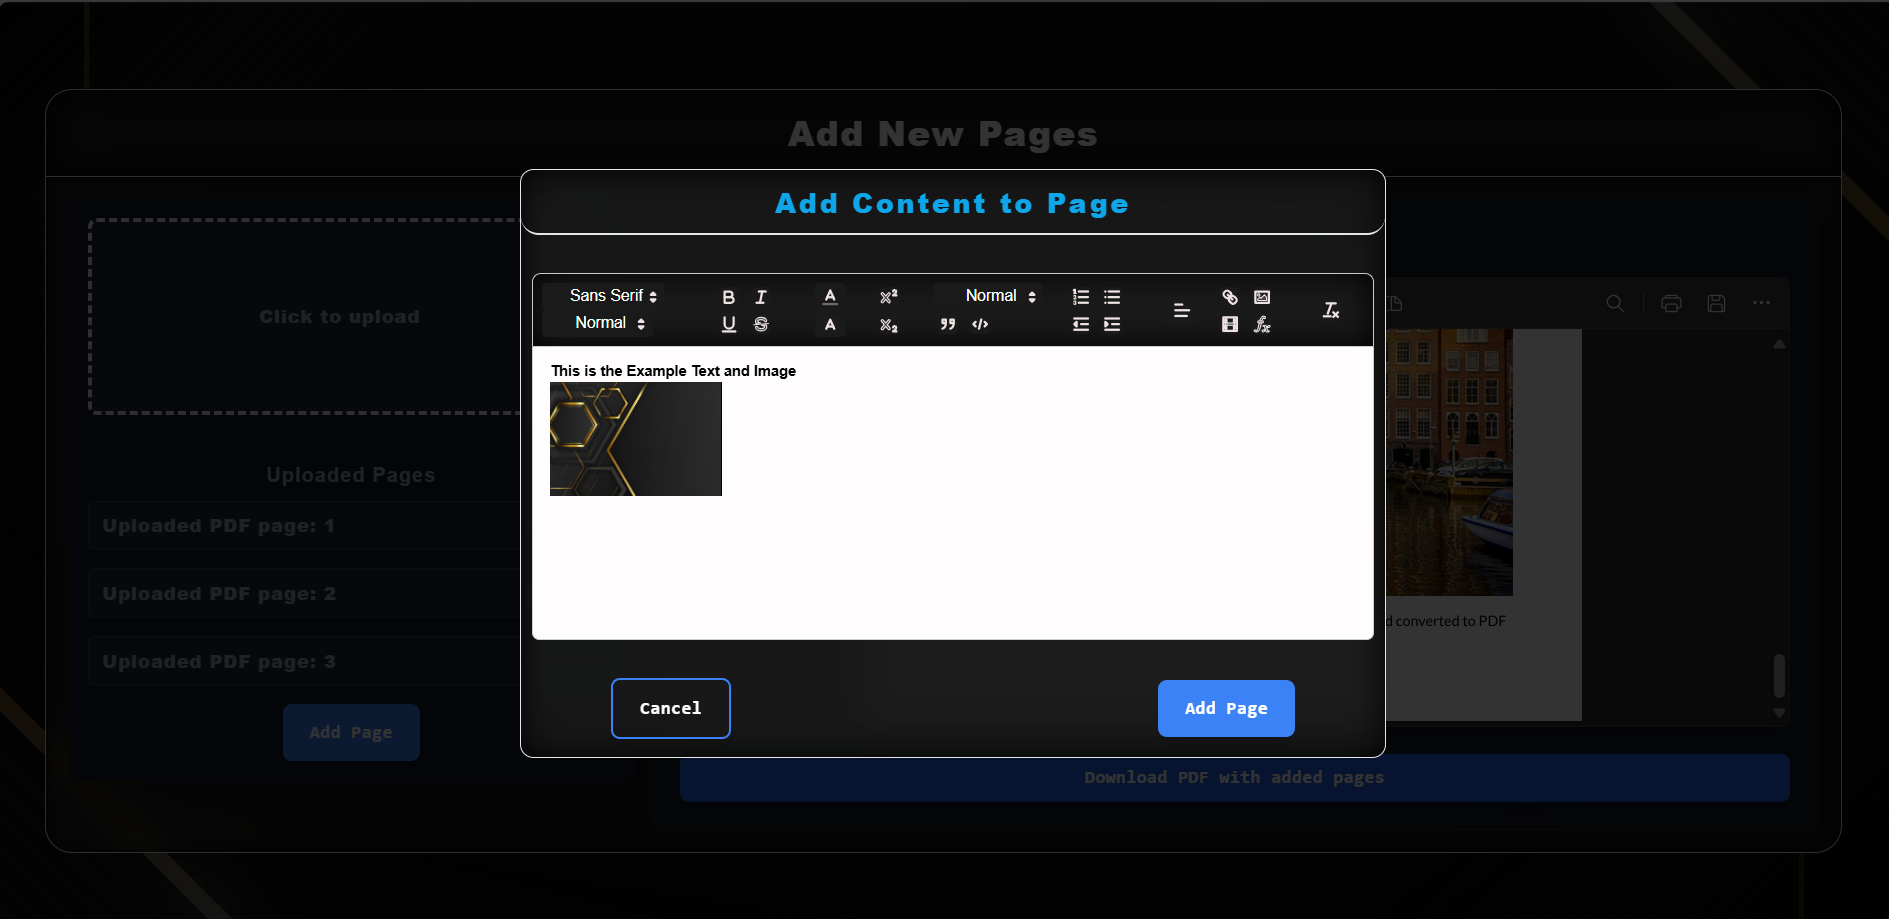
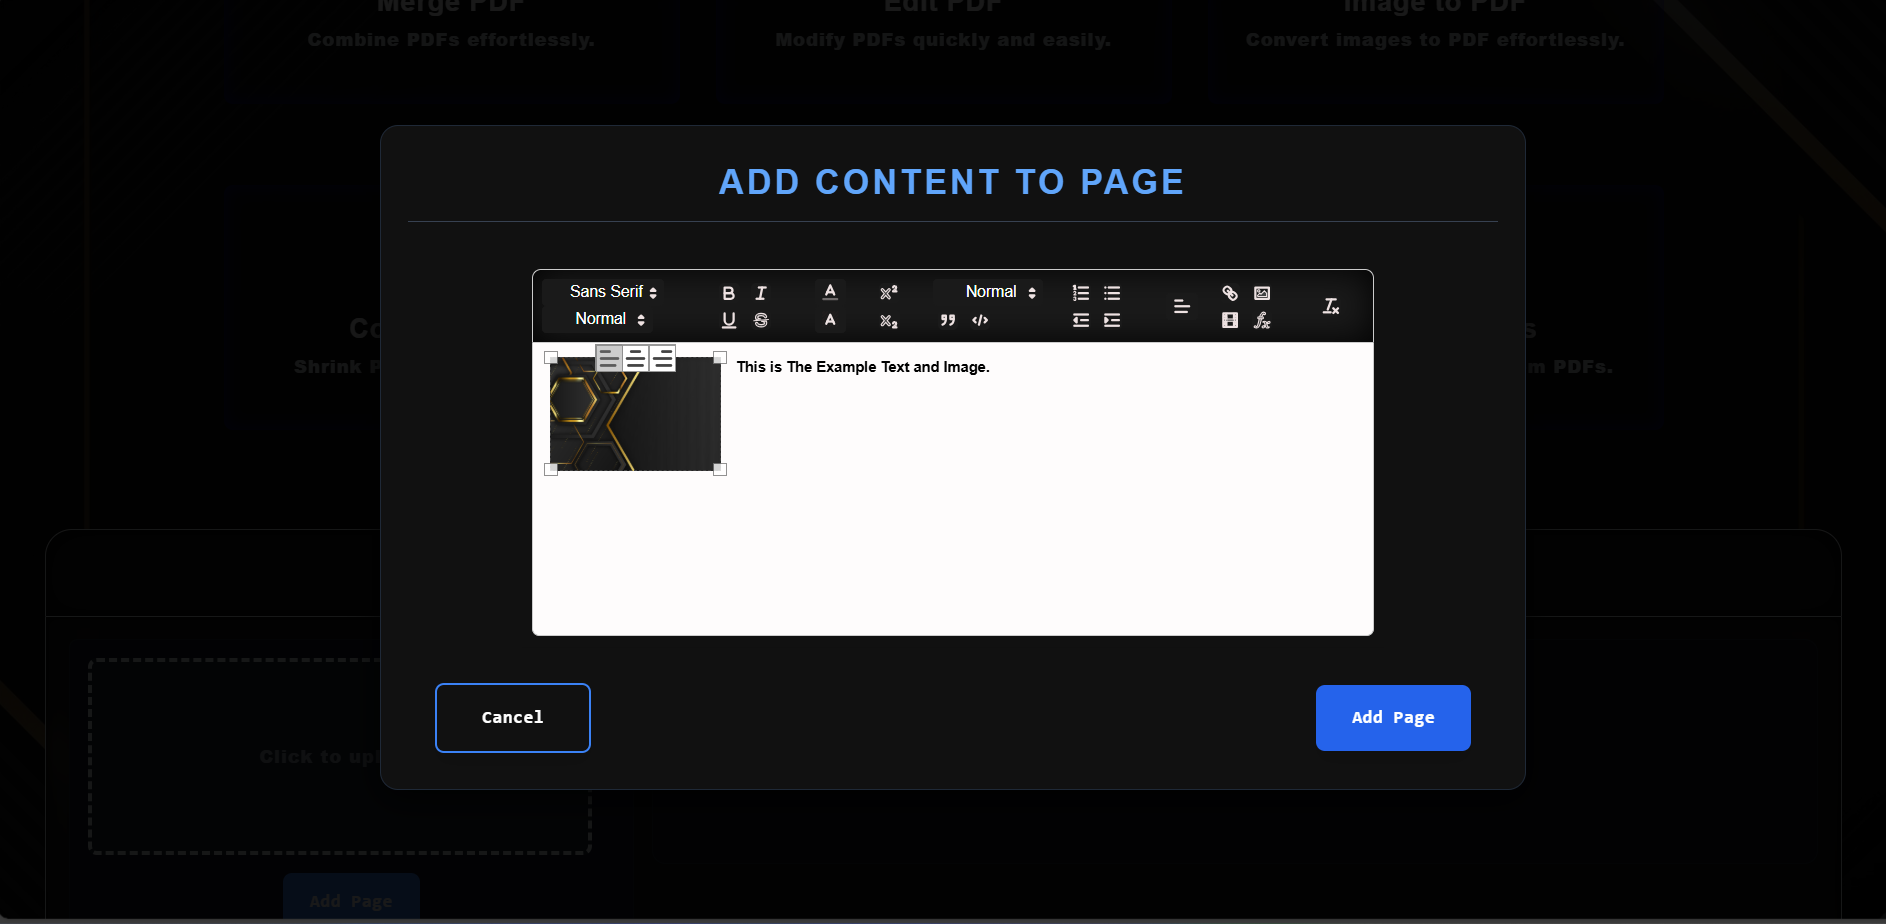
made Compress Pdf working ....and nothing much just didnt like that dialog box so changed it didnt have time for much today

diff --git a/app/components/AddPages.jsx b/app/components/AddPages.jsx
@@ -195,13 +195,15 @@ const AddPages = () => {
               ))}
             </div>
 
-            {isContinueClicked && pdfs.length>0 && (<button
+            {/* {isContinueClicked && pdfs.length>0 && ( */}
+              <button
               onClick={openDialog}
               className="px-6 py-4 w-fit mt-4 bg-blue-500 text-white font-mono shadow-lg tracking-wide rounded-lg hover:bg-blue-600 transition duration-300 font-extrabold ease-in-out disabled:opacity-50"
             >
               Add Page
-            </button>)
-}
+            </button>
+            {/* )
+} */}
           </div>
         </div>
 
@@ -234,32 +236,36 @@ const AddPages = () => {
         </div>
       </div>
       {isDialogOpen && (
-  <div className="fixed top-0 left-0 flex justify-center items-center w-screen h-screen bg-black bg-opacity-80">
-  <div className="text-white border-[1px] border-gray-200 text-center h-fit w-fit backdrop-blur-lg bg-opacity-90 rounded-xl bg-[#1a1a1a] overflow-hidden shadow-[inset_0_0_30px_rgba(0,0,0,1)]">
-    <h1 className="text-2xl  text-sky-500 justify-self-center border-b-2 w-full px-36 py-3 border-double rounded-2xl font-extrabold tracking-widest mb-6 text-center">
+  <div className="fixed top-0 left-0 flex justify-center items-center w-screen h-screen bg-black bg-opacity-90">
+  <div className="text-white border-[1px] px-6 py-8 border-gray-800 text-center h-fit w-[90%] md:w-[60%] backdrop-blur-xl bg-opacity-95 rounded-2xl bg-[#121212] overflow-hidden shadow-[0px_8px_30px_rgba(0,0,0,0.8)]">
+    <h1 className="text-3xl text-blue-400 border-b-[1px] border-gray-700 w-full pb-4 font-bold uppercase tracking-widest mb-8 text-center">
       Add Content to Page
     </h1>
-    <QuillEditor
-      value={editorContent}
-      onChange={setEditorContent}
-      placeholder={"Start Writing..."}
-    />
-    <div className="flex justify-between items-center px-20 mb-4 mt-6">
+    <div className="px-4">
+      <QuillEditor
+        value={editorContent}
+        onChange={setEditorContent}
+        placeholder={"Start writing..."}
+        className="bg-[#1f1f1f] text-white rounded-lg shadow-[0_0_10px_rgba(0,0,0,0.5)]"
+      />
+    </div>
+    <div className="flex justify-between items-center px-6 mt-8">
       <button
         onClick={closeDialog}
-        className="px-6 py-4 w-fit border-2 border-blue-500 text-white font-mono shadow-lg tracking-wide rounded-lg hover:bg-blue-600 transition duration-300 font-extrabold ease-in-out disabled:opacity-50"
+        className="px-10 py-5 w-fit border-2 border-blue-500 text-white font-mono shadow-lg tracking-wide rounded-lg hover:bg-gray-500 hover:text-black hover:border-black transition duration-300 font-bold ease-in-out disabled:opacity-50"
       >
         Cancel
       </button>
       <button
         onClick={addPageFromEditor}
-        className="px-6 py-4 w-fit bg-blue-500 text-white font-mono shadow-lg tracking-wide rounded-lg hover:bg-blue-600 transition duration-300 font-extrabold ease-in-out disabled:opacity-50"
+        className="px-8 py-5 w-fit bg-blue-600 text-white font-mono shadow-lg tracking-wide rounded-lg hover:bg-blue-700 transition duration-300 font-bold ease-in-out disabled:opacity-50"
       >
         Add Page
       </button>
     </div>
   </div>
 </div>
+
 
 )}
     </div>

diff --git a/app/components/CompressPDF.jsx b/app/components/CompressPDF.jsx
@@ -1,7 +1,7 @@
-import React, { useState, useRef } from 'react';
+import React, { useState, useRef,useEffect } from 'react';
 import { PDFDocument } from 'pdf-lib';
 import { saveAs } from 'file-saver';
-
+import * as pdfjsLib from 'pdfjs-dist/webpack';
 const PDFCompressor = () => {
   const [pdfFiles, setPdfFiles] = useState([]);
   const [compressionQuality, setCompressionQuality] = useState(0.5);
@@ -12,6 +12,10 @@ const PDFCompressor = () => {
   const [error, setError] = useState(null);
   const [dragActive, setDragActive] = useState(false);
   const [isProcessing, setIsProcessing] = useState(false);
+
+  useEffect(() => {
+    pdfjsLib.GlobalWorkerOptions.workerSrc = "https://cdnjs.cloudflare.com/ajax/libs/pdf.js/3.4.120/pdf.worker.min.js";
+  }, []);
 
 
   const handleDrag = (e) => {
@@ -50,26 +54,59 @@ const PDFCompressor = () => {
 
   const compressPDF = async () => {
     if (pdfFiles.length === 0) {
-      alert('Please select PDF files to compress.');
+      alert("Please select PDF files to compress.");
       return;
     }
-
+  
     const pdfDoc = await PDFDocument.create();
-
+    const canvas = document.createElement("canvas");
+    const ctx = canvas.getContext("2d");
+  
     for (const file of pdfFiles) {
       const arrayBuffer = await file.arrayBuffer();
-      const existingPdfDoc = await PDFDocument.load(arrayBuffer);
-
-      const pages = await pdfDoc.copyPages(existingPdfDoc, existingPdfDoc.getPageIndices());
-      pages.forEach((page) => pdfDoc.addPage(page));
+      const loadingTask = pdfjsLib.getDocument({ data: arrayBuffer });
+  
+      try {
+        const pdf = await loadingTask.promise;
+        const numPages = pdf.numPages;
+  
+        for (let i = 1; i <= numPages; i++) {
+          const page = await pdf.getPage(i);
+          const viewport = page.getViewport({ scale: 1 });
+          canvas.width = viewport.width;
+          canvas.height = viewport.height;
+  
+          await page.render({
+            canvasContext: ctx,
+            viewport,
+          }).promise;
+  
+          const imageData = canvas.toDataURL("image/jpeg", compressionQuality); 
+          const imageBytes = await fetch(imageData).then((res) => res.arrayBuffer());
+          const img = await pdfDoc.embedJpg(imageBytes);
+  
+          const pageWidth = img.width;
+          const pageHeight = img.height;
+          const newPage = pdfDoc.addPage([pageWidth, pageHeight]);
+          newPage.drawImage(img, {
+            x: 0,
+            y: 0,
+            width: pageWidth,
+            height: pageHeight,
+          });
+        }
+      } catch (err) {
+        console.error(`Error processing file: ${file.name}`, err);
+        alert(`Failed to process ${file.name}`);
+      }
     }
-
+  
     const compressedPdfBytes = await pdfDoc.save();
-    const compressedPdfBlob = new Blob([compressedPdfBytes], { type: 'application/pdf' });
+    const compressedPdfBlob = new Blob([compressedPdfBytes], { type: "application/pdf" });
     setCompressedPdfBlob(compressedPdfBlob);
     resetInput();
   };
-
+  
   const resetInput = () => {
     pdfInputRef.current.value = '';
     setPdfFiles([]);
